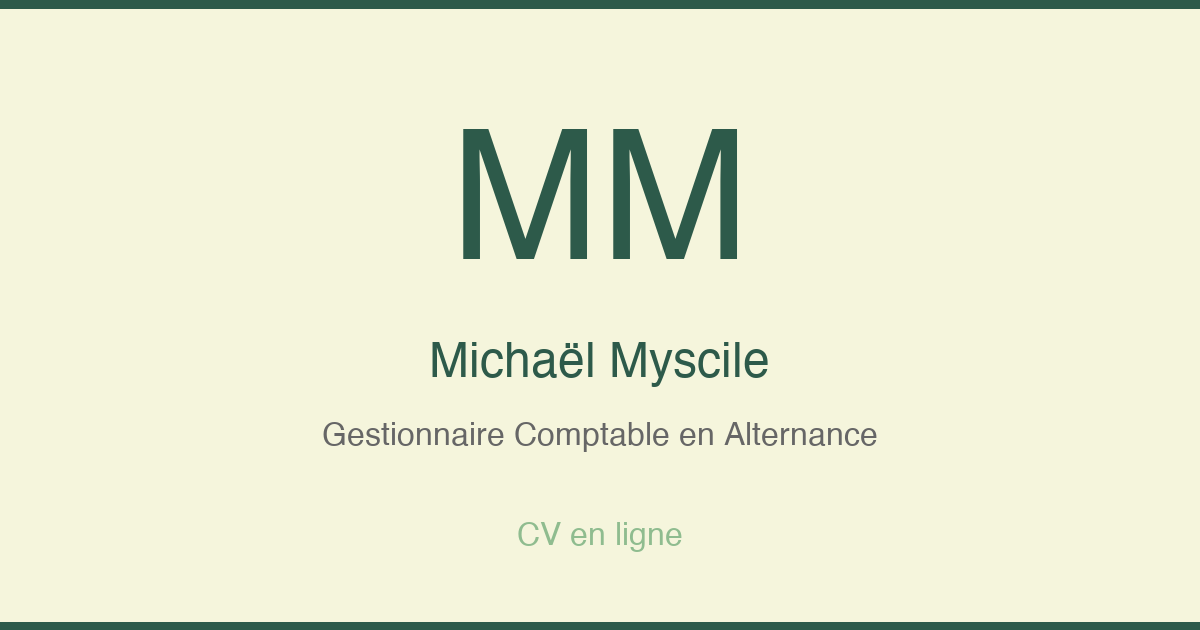
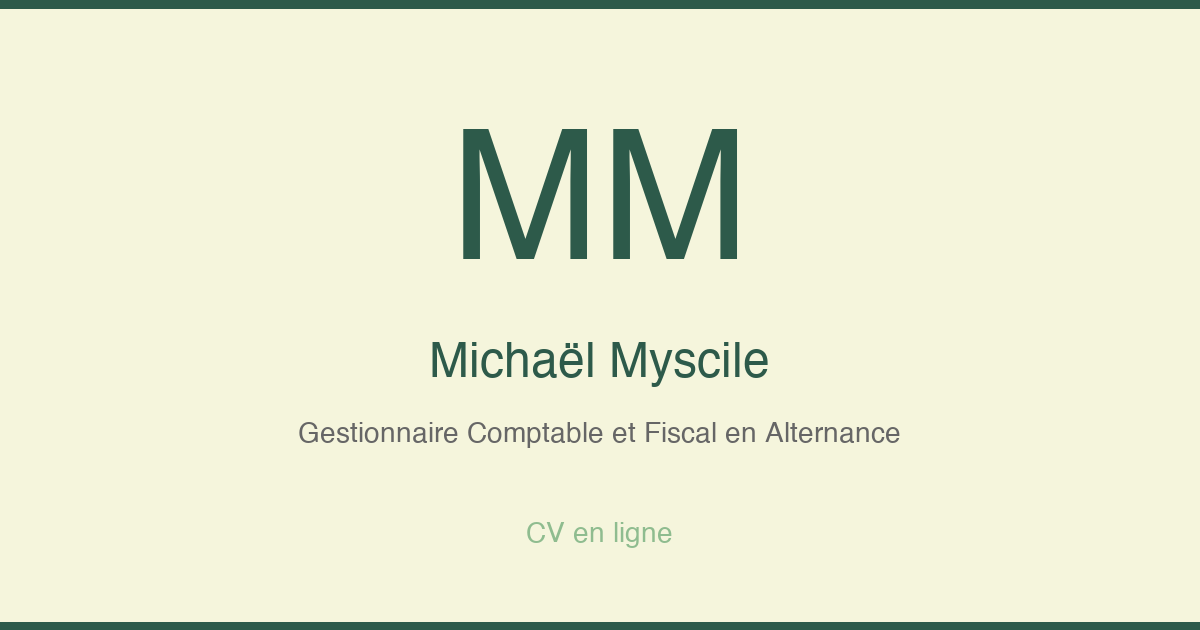
Fix title: Gestionnaire Comptable et Fiscal

Changed region(s): [[0.2467, 0.6635, 0.74, 0.7238], [0.4317, 0.8143, 0.5858, 0.8746]]

diff --git a/src/app/layout.tsx b/src/app/layout.tsx
@@ -10,18 +10,18 @@ const inter = Inter({
 const basePath = process.env.NEXT_PUBLIC_BASE_PATH || "";
 
 export const metadata: Metadata = {
-  title: "Michaël Myscile | Gestionnaire Comptable en Alternance",
+  title: "Michaël Myscile | Gestionnaire Comptable et Fiscal en Alternance",
   description: "CV en ligne de Michaël Myscile, en reconversion vers la comptabilité. Recherche une alternance pour un titre professionnel de gestionnaire comptable et fiscal.",
   keywords: ["CV", "comptabilité", "alternance", "gestionnaire comptable", "fiscal", "reconversion"],
   openGraph: {
-    title: "Michaël Myscile | Gestionnaire Comptable en Alternance",
+    title: "Michaël Myscile | Gestionnaire Comptable et Fiscal en Alternance",
     description: "CV en ligne de Michaël Myscile, en reconversion vers la comptabilité. Recherche une alternance pour un titre professionnel de gestionnaire comptable et fiscal.",
     images: [`${basePath}/og-image.png`],
     type: "website",
   },
   twitter: {
     card: "summary_large_image",
-    title: "Michaël Myscile | Gestionnaire Comptable en Alternance",
+    title: "Michaël Myscile | Gestionnaire Comptable et Fiscal en Alternance",
     description: "CV en ligne de Michaël Myscile. Recherche une alternance pour un titre de gestionnaire comptable et fiscal.",
     images: [`${basePath}/og-image.png`],
   },
